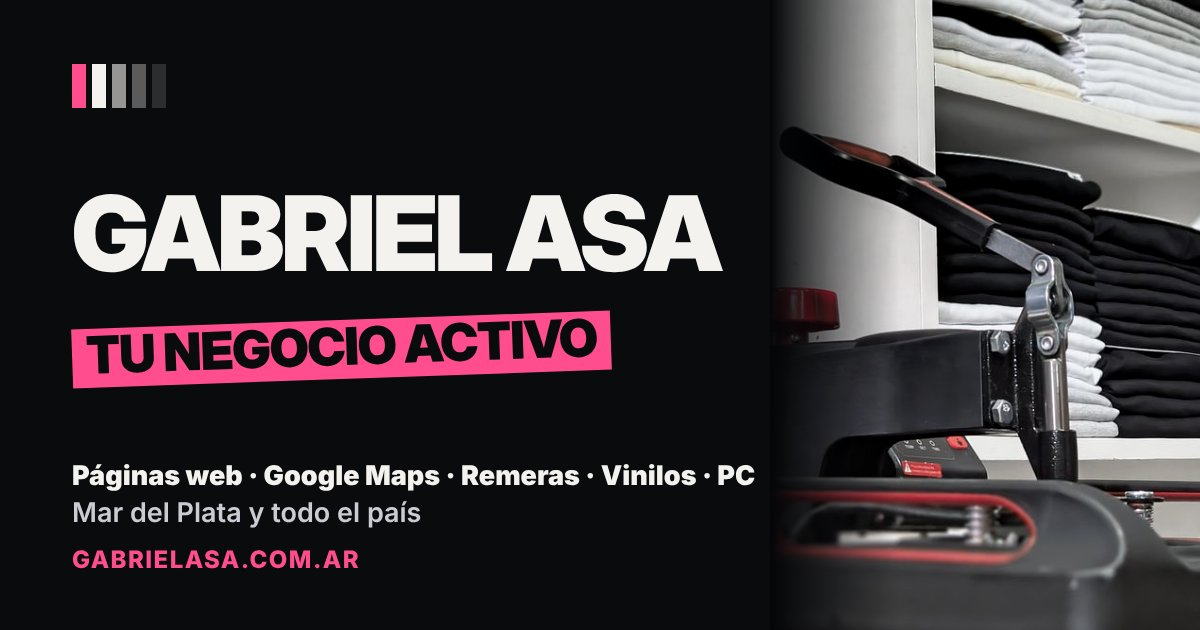
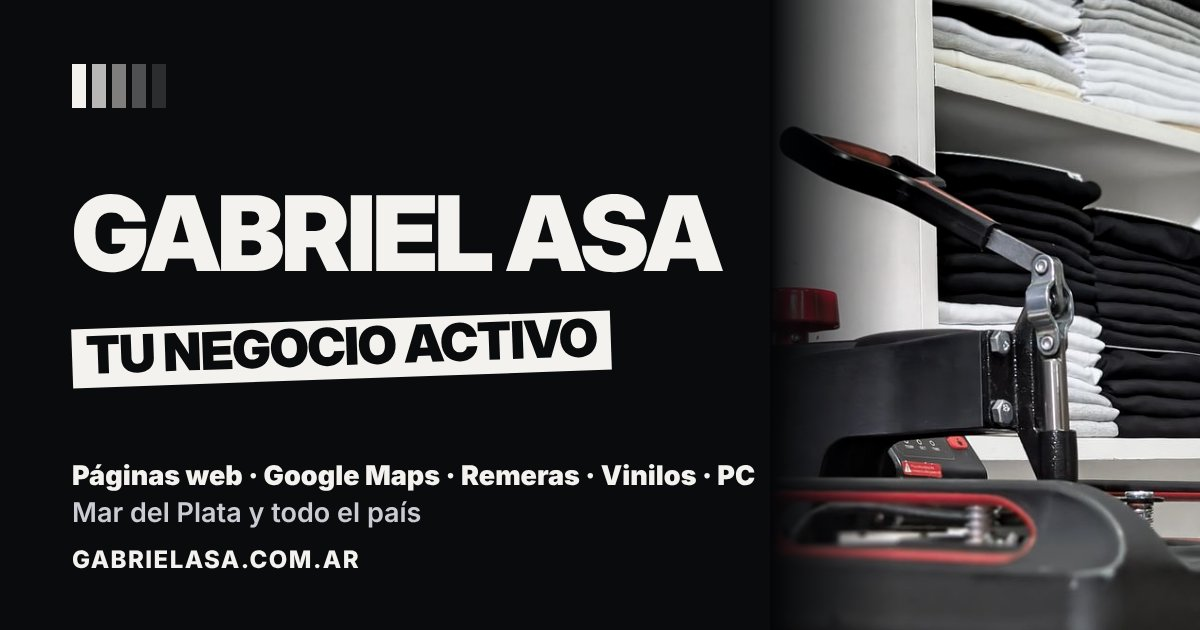
Acento en blanco y negro: el color queda solo en las etiquetas de cada servicio
Claude-Session: https://claude.ai/code/session_01QfLY8cxD3ko1FcmjiaKJgZ

Changed region(s): [[0.0617, 0.4825, 0.5242, 0.6333], [0.0617, 0.8746, 0.3083, 0.9048], [0.0617, 0.0905, 0.0925, 0.181]]

diff --git a/index.html b/index.html
@@ -42,7 +42,8 @@
   --vinilo:#19b5fe;
   --remeras:#ff7a1a;
   --wa:#25d366;
-  --c:var(--web);
+  --c:var(--fg);
+  --shadow:#5b5f67;
   --display:"Anton","Impact","Arial Narrow",sans-serif;
   --body:"Archivo","Helvetica Neue",Arial,sans-serif;
   --s-1:.8125rem; --s0:1rem; --s1:1.2rem; --s2:clamp(1.6rem,3.4vw,2.2rem); --s3:clamp(2.4rem,6.5vw,4.2rem); --s4:clamp(3.4rem,12vw,8.5rem);
@@ -53,7 +54,7 @@ html{scroll-behavior:smooth;scroll-padding-top:70px}
 @media (prefers-reduced-motion:reduce){html{scroll-behavior:auto}}
 body{margin:0;background:var(--ink);color:var(--fg);font-family:var(--body);font-size:var(--s0);line-height:1.55}
 a{color:inherit}
-a:focus-visible,button:focus-visible{outline:2px solid var(--web);outline-offset:3px}
+a:focus-visible,button:focus-visible{outline:2px solid var(--fg);outline-offset:3px}
 p{margin:0}
 h1,h2,h3{font-family:var(--display);font-weight:400;text-transform:uppercase;line-height:.95;letter-spacing:.005em;margin:0;text-wrap:balance}
 .wrap{max-width:1140px;margin:0 auto;padding-left:max(16px,env(safe-area-inset-left,0px));padding-right:max(16px,env(safe-area-inset-right,0px))}
@@ -71,7 +72,7 @@ header{position:sticky;top:env(safe-area-inset-top,0px);z-index:5;background:var
 .nav ul a:hover{color:var(--fg)}
 @media (max-width:760px){.nav{flex-wrap:wrap;row-gap:8px}.nav ul{order:3;width:100%;gap:14px;overflow-x:auto;scrollbar-width:none;font-size:.72rem;padding-bottom:2px}.nav ul::-webkit-scrollbar{display:none}.nav ul a{white-space:nowrap}html{scroll-padding-top:104px}}
 .btn{display:inline-flex;align-items:center;gap:10px;font-family:var(--body);font-stretch:110%;font-weight:800;text-transform:uppercase;letter-spacing:.04em;font-size:.95rem;text-decoration:none;padding:14px 20px;border:2px solid var(--fg);background:var(--fg);color:var(--ink);cursor:pointer;transition:transform .15s,box-shadow .15s}
-.btn:hover{transform:translate(-3px,-3px);box-shadow:3px 3px 0 var(--web)}
+.btn:hover{transform:translate(-3px,-3px);box-shadow:3px 3px 0 var(--shadow)}
 .btn.ghost{background:transparent;color:var(--fg)}
 .btn.sm{padding:9px 14px;font-size:.78rem}
 @media (prefers-reduced-motion:reduce){.btn{transition:none}.btn:hover{transform:none}}
@@ -84,8 +85,8 @@ header{position:sticky;top:env(safe-area-inset-top,0px);z-index:5;background:var
 .hero h1{font-size:var(--s4);margin-top:0;line-height:.9}
 .hero h1 span{display:block}
 .sticker{display:inline-block;color:var(--ink);padding:.02em .14em .06em;margin-block:.06em}
-.st-web{background:var(--web);transform:rotate(-2.2deg)}
-.st-vinilo{background:var(--fg);transform:rotate(1.4deg)}
+.st-web{background:var(--fg);transform:rotate(-2.2deg)}
+.st-vinilo{background:transparent;color:var(--fg);box-shadow:inset 0 0 0 .06em var(--fg);transform:rotate(1.4deg)}
 .hero-low{display:grid;grid-template-columns:minmax(0,1.3fr) minmax(0,1fr);gap:32px 56px;align-items:end;margin-top:44px;padding-bottom:48px}
 @media (max-width:820px){.hero-low{grid-template-columns:1fr}}
 .lead{font-size:var(--s1);color:var(--muted);max-width:52ch}
@@ -137,7 +138,7 @@ section{padding-block:88px}
 .sheet-wrap .head p{color:var(--ink-muted)}
 .sheet{border:2px solid var(--ink);background:var(--paper)}
 .sheet-top{display:flex;justify-content:space-between;flex-wrap:wrap;gap:8px 24px;padding:14px 20px;border-bottom:2px solid var(--ink);background:var(--ink);color:var(--paper)}
-.sheet-top .lbl:last-child{color:var(--web)}
+.sheet-top .lbl:last-child{color:var(--paper)}
 .plan{display:grid;grid-template-columns:minmax(0,260px) minmax(0,1fr) auto;gap:8px 32px;align-items:baseline;padding:24px 20px;border-bottom:1px dashed var(--paper-rule)}
 .plan:last-of-type{border-bottom:0}
 .plan h3{font-size:1.9rem}
@@ -148,9 +149,9 @@ section{padding-block:88px}
 @media (max-width:760px){.plan{grid-template-columns:1fr}.plan .price{text-align:left}}
 .checks{list-style:none;margin:0;padding:20px;border-top:2px solid var(--ink);display:grid;grid-template-columns:repeat(auto-fit,minmax(min(100%,230px),1fr));gap:12px 24px}
 .checks li{display:flex;gap:12px;align-items:center;font-weight:600}
-.checks li::before{content:"✓";flex:none;width:22px;height:22px;display:grid;place-items:center;border:2px solid var(--ink);font-size:.8rem;font-weight:800;color:var(--ink);background:var(--web)}
+.checks li::before{content:"✓";flex:none;width:22px;height:22px;display:grid;place-items:center;border:2px solid var(--ink);font-size:.8rem;font-weight:800;color:var(--paper);background:var(--ink)}
 .note{margin-top:22px;color:var(--ink-muted);font-size:.92rem;max-width:72ch}
-.stamp{display:inline-block;margin-top:28px;border:3px solid var(--web);color:var(--web);font-family:var(--display);font-size:1.5rem;text-transform:uppercase;padding:6px 14px;transform:rotate(-3deg);letter-spacing:.02em}
+.stamp{display:inline-block;margin-top:28px;border:3px solid var(--ink);color:var(--ink);font-family:var(--display);font-size:1.5rem;text-transform:uppercase;padding:6px 14px;transform:rotate(-3deg);letter-spacing:.02em}
 
 /* Trabajos */
 .group+.group{margin-top:48px}
@@ -177,7 +178,7 @@ section{padding-block:88px}
 .more-work span{color:var(--muted);font-size:.9rem}
 .note-s{margin-top:auto;color:var(--muted);font-size:.9rem;font-weight:600}
 .totop{position:fixed;right:calc(16px + env(safe-area-inset-right,0px));bottom:calc(16px + env(safe-area-inset-bottom,0px));z-index:6;width:48px;height:48px;display:grid;place-items:center;background:var(--ink);color:var(--fg);border:2px solid var(--fg);text-decoration:none;transition:transform .15s,box-shadow .15s}
-.totop:hover{transform:translate(-3px,-3px);box-shadow:3px 3px 0 var(--web)}
+.totop:hover{transform:translate(-3px,-3px);box-shadow:3px 3px 0 var(--shadow)}
 .totop svg{width:22px;height:22px}
 .totop[hidden]{display:none}
 @media (prefers-reduced-motion:reduce){.totop{transition:none}.totop:hover{transform:none}}
@@ -201,11 +202,11 @@ section{padding-block:88px}
 
 
 /* Contacto: banda amarilla */
-.call{background:var(--web);color:var(--ink);padding-block:32px}
+.call{background:var(--fg);color:var(--ink);padding-block:32px}
 .call .wrap.call-in{padding-left:max(32px,env(safe-area-inset-left,0px));padding-right:max(32px,env(safe-area-inset-right,0px))}
 @media (min-width:700px){
   .call{background:var(--ink);padding-block:0 88px}
-  .call .wrap.call-in{background:var(--web);width:fit-content;max-width:calc(100% - 32px);padding:48px}
+  .call .wrap.call-in{background:var(--fg);width:fit-content;max-width:calc(100% - 32px);padding:48px}
   .cta-box h2{font-size:clamp(4rem,8vw,7rem)}
 }
 .call-in{display:block}
@@ -215,10 +216,10 @@ section{padding-block:88px}
 .phone{display:flex;align-items:center;gap:.25em;font-family:var(--display);font-size:clamp(2.2rem,6.5vw,3.8rem);line-height:.9;font-variant-numeric:tabular-nums;margin-top:20px;user-select:all;letter-spacing:-.005em}
 .call .actions{display:flex;flex-wrap:wrap;gap:12px;margin-top:26px}
 .call .btn{background:var(--ink);color:var(--fg);border-color:var(--ink)}
-.call .btn:hover{box-shadow:3px 3px 0 var(--fg)}
+.call .btn:hover{box-shadow:3px 3px 0 var(--shadow)}
 .call .btn.ghost{background:transparent;color:var(--ink)}
 .socials{list-style:none;margin:0;padding:0;border-top:2px solid var(--ink)}
-.socials li{display:flex;justify-content:space-between;flex-wrap:wrap;gap:6px 16px;padding-block:14px;border-bottom:1px solid color-mix(in srgb,var(--ink) 30%,var(--web))}
+.socials li{display:flex;justify-content:space-between;flex-wrap:wrap;gap:6px 16px;padding-block:14px;border-bottom:1px solid color-mix(in srgb,var(--ink) 30%,var(--fg))}
 .socials .lbl{font-size:.7rem}
 .socials a{font-weight:700;text-decoration:none}
 .socials a:hover{text-decoration:underline}
@@ -228,7 +229,7 @@ footer .wrap{display:flex;flex-wrap:wrap;justify-content:space-between;gap:12px}
 footer .bars{display:flex;gap:3px}
 footer .bars b{width:22px;height:4px;display:block}
 .ico{width:1.15em;height:1.15em;flex:none}
-.btn.wa{background:var(--web);border-color:var(--web);color:var(--ink)}
+.btn.wa{background:var(--fg);border-color:var(--fg);color:var(--ink)}
 .btn.sm.wa{background:var(--fg);border-color:var(--fg);color:var(--ink)}
 .call .btn.wa{border-color:var(--ink)}
 .hero-cta .num{display:flex;align-items:center;gap:10px}
@@ -243,7 +244,7 @@ footer .bars b{width:22px;height:4px;display:block}
 .cta-btn{width:88%;justify-content:center;font-size:clamp(1.2rem,5vw,1.8rem);padding:clamp(16px,4vw,26px) 20px}
 .cta-btn .wa-logo{width:1.5em;height:1.5em}
 .call .cta-btn.btn.wa{background:var(--ink);color:#fff;border-color:var(--ink)}
-.call .cta-btn.btn.wa:hover{box-shadow:4px 4px 0 #fff}
+.call .cta-btn.btn.wa:hover{box-shadow:4px 4px 0 var(--shadow)}
 @media (max-width:460px){.cta-btn{width:100%}}
 .row{overflow:hidden}
 .row::after{content:"";position:absolute;top:auto;bottom:18px;left:260px;width:min(32%,340px);height:44%;background:var(--art) left bottom/contain no-repeat;opacity:.1;pointer-events:none}
@@ -265,7 +266,7 @@ footer .bars b{width:22px;height:4px;display:block}
 .nav ul a{display:inline-block;padding-block:12px}
 .row .f a,.case a.link,.case a.maps{display:inline-block;padding-block:10px}
 .tape a{color:var(--fg)}
-.tape a::after{background:var(--web);opacity:1}
+.tape a::after{background:var(--fg);opacity:.5}
 @media (max-width:640px){
   section{padding-block:56px}
   .head{margin-bottom:28px}
@@ -288,7 +289,7 @@ footer .bars b{width:22px;height:4px;display:block}
 
 <header>
   <div class="wrap nav">
-    <a class="brand" href="#inicio"><i aria-hidden="true"><b style="background:var(--web)"></b><b style="background:var(--fg)"></b><b style="background:var(--fg);opacity:.6"></b><b style="background:var(--fg);opacity:.35"></b><b style="background:var(--fg);opacity:.15"></b></i>Gabriel Asa</a>
+    <a class="brand" href="#inicio"><i aria-hidden="true"><b style="background:var(--fg)"></b><b style="background:var(--fg);opacity:.75"></b><b style="background:var(--fg);opacity:.5"></b><b style="background:var(--fg);opacity:.3"></b><b style="background:var(--fg);opacity:.15"></b></i>Gabriel Asa</a>
     <ul class="lbl">
       <li><a href="#servicios">Servicios</a></li>
       <li><a href="#trabajos">Trabajos</a></li>
@@ -471,7 +472,7 @@ footer .bars b{width:22px;height:4px;display:block}
 </main>
 
 <footer>
-  <div class="wrap"><span>© 2026 Gabriel Asa · Mar del Plata, Buenos Aires</span><span class="bars" aria-hidden="true"><b style="background:var(--web)"></b><b style="background:var(--fg)"></b><b style="background:var(--fg);opacity:.6"></b><b style="background:var(--fg);opacity:.35"></b><b style="background:var(--fg);opacity:.15"></b></span></div>
+  <div class="wrap"><span>© 2026 Gabriel Asa · Mar del Plata, Buenos Aires</span><span class="bars" aria-hidden="true"><b style="background:var(--fg)"></b><b style="background:var(--fg);opacity:.75"></b><b style="background:var(--fg);opacity:.5"></b><b style="background:var(--fg);opacity:.3"></b><b style="background:var(--fg);opacity:.15"></b></span></div>
 </footer>
 
 <a class="totop" id="totop" href="#inicio" aria-label="Volver arriba" hidden><svg viewBox="0 0 24 24" fill="none" stroke="currentColor" stroke-width="2.5" stroke-linecap="round" stroke-linejoin="round" aria-hidden="true"><path d="M12 19V5M6 11l6-6 6 6"/></svg></a>
